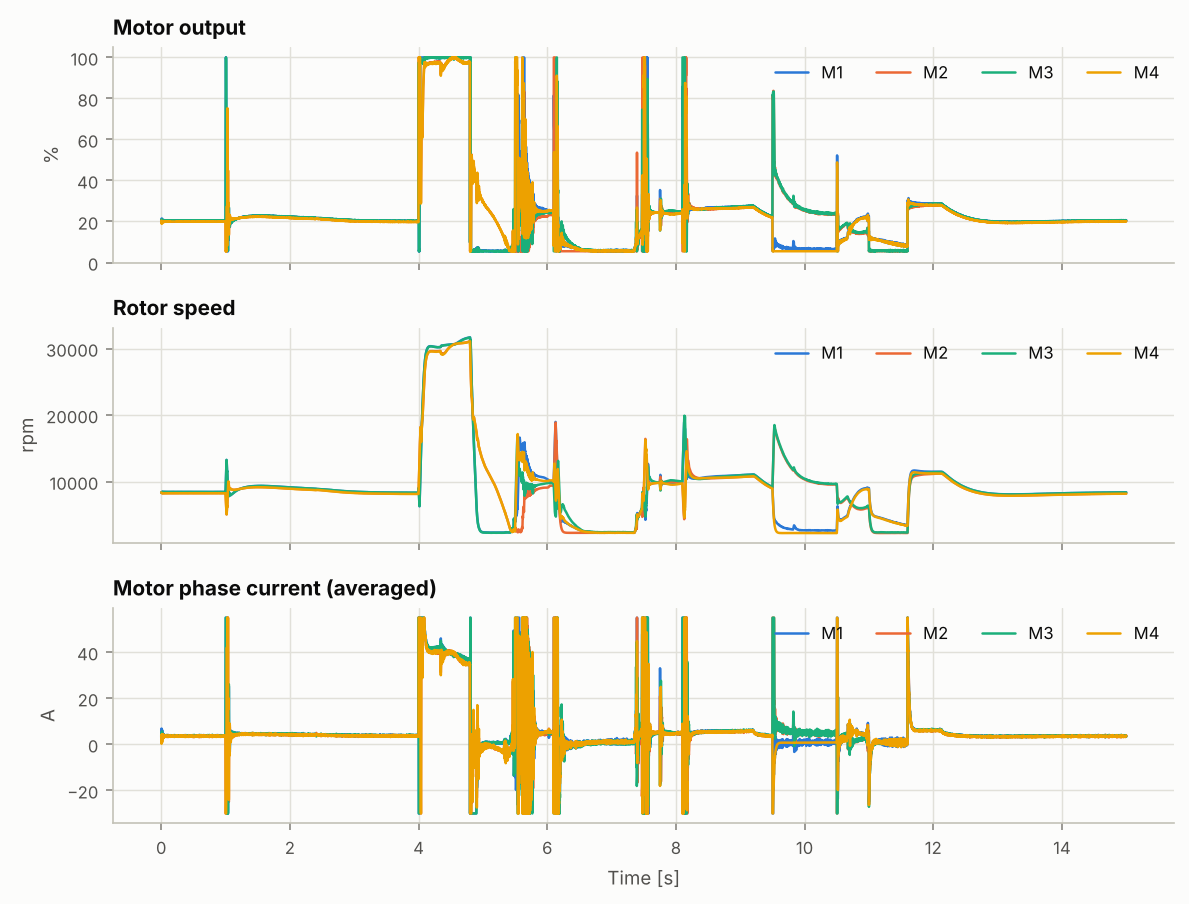
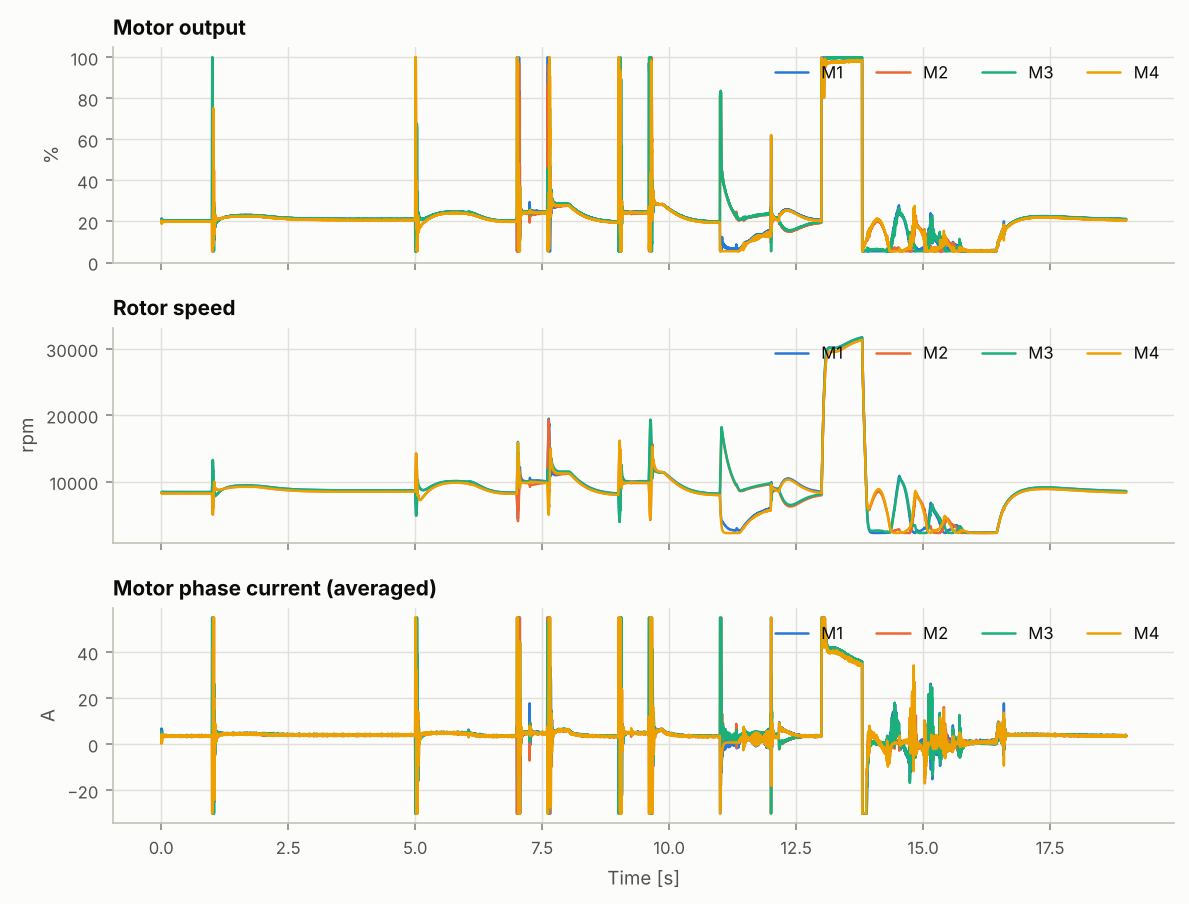
Regenerate design and flight reports after the stage 7 fixes
The design report now includes battery placement uncertainty (CG offset
spec 97% instead of >99.7%) and the trimmed thrust-to-weight; the flight
report uses the reordered freestyle maneuver.

Claude-Session: https://claude.ai/code/session_01Gr7RFANGNg9tgHViymiLYv

diff --git a/reports/flight-freestyle/report.md b/reports/flight-freestyle/report.md
@@ -1,4 +1,4 @@
-# 飛行測試報告：綜合飛行：前飛、衝刺、滾轉翻、後空翻、原地自轉、收油下墜（`freestyle`）
+# 飛行測試報告：綜合飛行：10 m/s 前飛、滾轉翻、後空翻、原地自轉、衝刺、收油下墜（`freestyle`）
 
 > 由 `fpvsim fly` 自動產生。原始 log 在 `flight_log.csv`（欄位格式見 docs/flight-sim.md）。
 
@@ -7,25 +7,25 @@
 | 機體 | 參考機：5 吋 6S freestyle（通用零件）（`data/builds/ref-5in-6s-freestyle.toml`） |
 | 飛控設定 | 5 吋 Acro 基準設定（`acro-5in-baseline`） |
 | 輸入 | `freestyle` |
-| 程式版本 | fpvsim 0.1.0，git `e0bf60d6ae2f（工作區有未提交的修改）` |
-| 輸入檔雜湊 | `2a0f87fb70bf5710` |
+| 程式版本 | fpvsim 0.1.0，git `f0fa48cda647（工作區有未提交的修改）` |
+| 輸入檔雜湊 | `d19981aac9bdba93` |
 | 隨機種子 | 1 |
 | 更新率 | 物理 8000 Hz，陀螺儀 8000 Hz，PID 4000 Hz，記錄 1000 Hz |
-| 產生時間 (UTC) | 2026-10-07 18:29 |
+| 產生時間 (UTC) | 2026-10-07 23:25 |
 
 ## 摘要
 
 | 項目 | 數值 |
 |---|---|
-| 飛行時間 | 15.0 s |
-| 最大速度（三維 / 水平） | 44.6 / 12.2 m/s（161 / 44 km/h） |
-| 最大爬升 / 下降速度 | 43.9 / 7.1 m/s |
-| 高度範圍（起始 20 m） | 20.0 – 77.1 m |
-| 最大傾角 | 166° |
-| 最大角速度（滾轉 / 俯仰 / 偏航） | 762 / 830 / 614 deg/s |
-| 最低單芯電壓（ESC 端） | 3.28 V |
-| 最大 / 最小電流 | 207 / -69 A（負值為煞車回充） |
-| 用電量 | 51 mAh，1.12 Wh |
+| 飛行時間 | 19.0 s |
+| 最大速度（三維 / 水平） | 45.8 / 9.6 m/s（165 / 35 km/h） |
+| 最大爬升 / 下降速度 | 45.8 / 4.8 m/s |
+| 高度範圍（起始 20 m） | 16.6 – 82.7 m |
+| 最大傾角 | 180° |
+| 最大角速度（滾轉 / 俯仰 / 偏航） | 797 / 821 / 615 deg/s |
+| 最低單芯電壓（ESC 端） | 3.26 V |
+| 最大 / 最小電流 | 208 / -70 A（負值為煞車回充） |
+| 用電量 | 54 mAh，1.21 Wh |
 | 剩餘電量 | 96% |
 
 - 觸地最大速度 0.00 m/s，未墜機（門檻 3 m/s）。
@@ -36,9 +36,9 @@
 
 | 軸 | 追蹤誤差 (RMS) | 延遲（互相關） | 最大命令角速度 |
 |---|---|---|---|
-| 滾轉 | 41.2 deg/s | 26 ms | 670 deg/s |
-| 俯仰 | 43.7 deg/s | 20 ms | 670 deg/s |
-| 偏航 | 14.0 deg/s | 9 ms | 600 deg/s |
+| 滾轉 | 33.2 deg/s | 22 ms | 670 deg/s |
+| 俯仰 | 36.1 deg/s | 21 ms | 670 deg/s |
+| 偏航 | 11.1 deg/s | 9 ms | 600 deg/s |
 
 ![Rates](rates.png)
 
@@ -54,10 +54,10 @@
 
 | 狀況 | 時間占比 | 首次發生 | 影響 |
 |---|---|---|---|
-| 下降進入自身尾流（下降速度 > 0.5 倍懸停誘導速度） | 9.1% | 5.69 s | 動量理論在此失效，渦環狀態與 propwash 未建模；這段的推力與抖動不可信 |
-| 前進比超出槳係數表（J ≥ 1） | 7.4% | 4.84 s | 槳係數以表格最後一點外插，推力估計不可信 |
+| 下降進入自身尾流（下降速度 > 0.5 倍懸停誘導速度） | 4.7% | 5.17 s | 動量理論在此失效，渦環狀態與 propwash 未建模；這段的推力與抖動不可信 |
+| 前進比超出槳係數表（J ≥ 1） | 10.5% | 13.83 s | 槳係數以表格最後一點外插，推力估計不可信 |
 | 槳尖馬赫數 > 0.7 | 0.0% | — | 未計入壓縮性，推力與扭矩偏樂觀 |
-| 混控飽和 | 1.0% | 1.00 s | 馬達已到 0% 或 100%，姿態控制能力受限；不是模型問題，是飛行限制 |
+| 混控飽和 | 0.6% | 1.00 s | 馬達已到 0% 或 100%，姿態控制能力受限；不是模型問題，是飛行限制 |
 | 接觸地面 | 0.0% | — | 接地模型為簡化的彈簧阻尼與庫侖摩擦 |
 
 ![Validity](validity.png)
